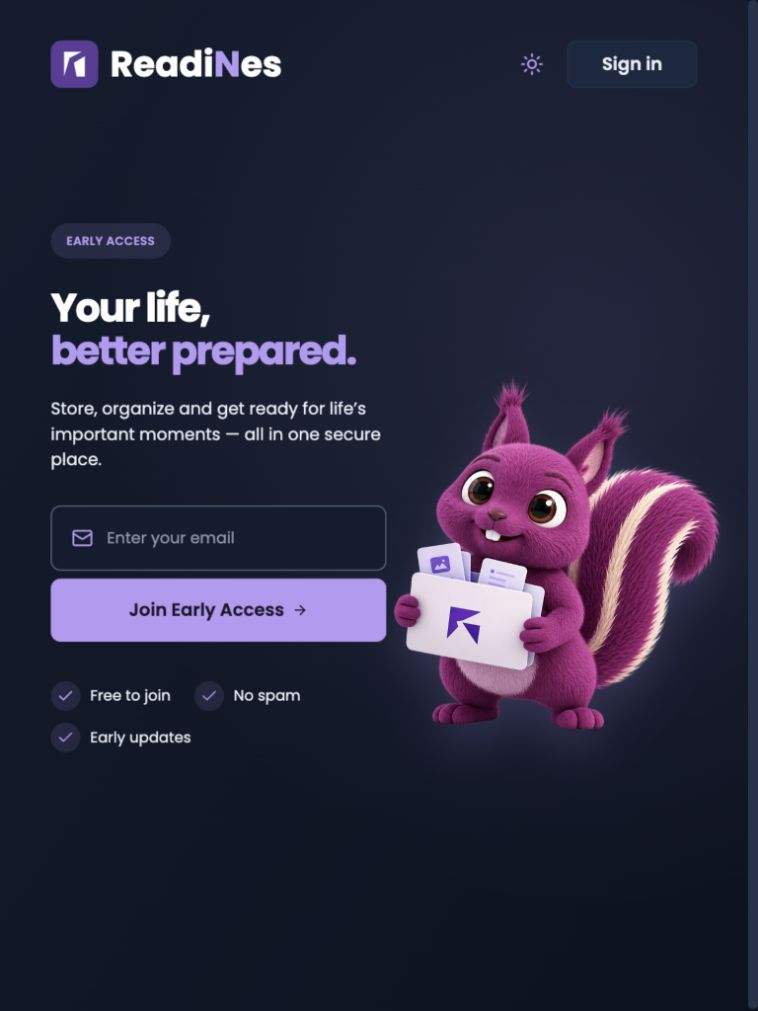
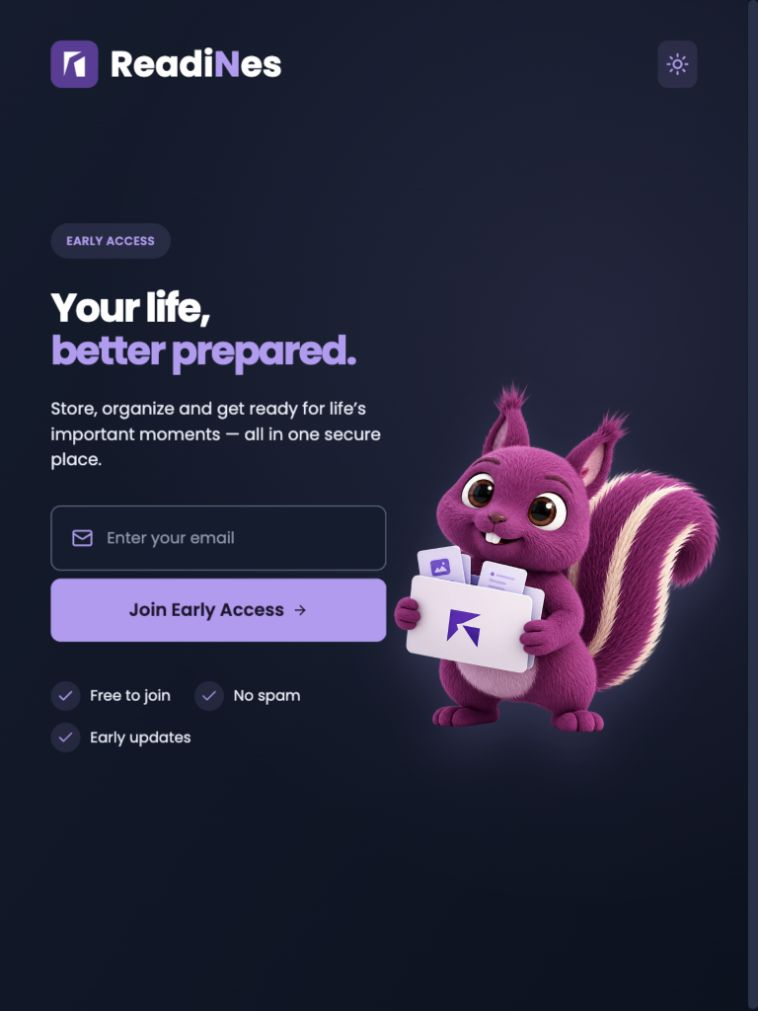
Remove Sign In from early-access landing

Changed region(s): [[0.5158, 0.368, 0.9406, 0.7359], [0.7889, 0.0307, 0.9103, 0.092], [0.6979, 0.0613, 0.7282, 0.092]]

diff --git a/src/components/EarlyAccessLanding.test.tsx b/src/components/EarlyAccessLanding.test.tsx
@@ -46,16 +46,15 @@ function submit(email = "audit@example.invalid") {
 }
 
 describe("separate early-access landing", () => {
-  it("renders only the new landing and retains the existing sign-in modal and focus restoration", () => {
-    render(<EarlyAccessLanding onAuthed={vi.fn()} />);
+  it("omits Sign In while retaining explicit authentication navigation", () => {
+    const { rerender } = render(<EarlyAccessLanding onAuthed={vi.fn()} />);
     expect(screen.getByRole("heading", { level: 1 }).textContent).toBe(
       "Your life,better prepared.",
     );
     expect(screen.queryByRole("heading", { name: "Features" })).toBeNull();
     expect(screen.queryByRole("heading", { name: "Pricing" })).toBeNull();
-    const signIn = screen.getByRole("button", { name: "Sign in" });
-    signIn.focus();
-    fireEvent.click(signIn);
+    expect(screen.queryByRole("button", { name: "Sign in" })).toBeNull();
+    rerender(<EarlyAccessLanding initialAuthMode="signin" onAuthed={vi.fn()} />);
     const dialog = screen.getByRole("dialog", { name: "Account access" });
     fireEvent.click(
       within(dialog).getByRole("button", { name: "Continue with email" }),
@@ -66,7 +65,6 @@ describe("separate early-access landing", () => {
     ).toBeTruthy();
     fireEvent.keyDown(document, { key: "Escape" });
     expect(screen.queryByRole("dialog")).toBeNull();
-    expect(document.activeElement).toBe(signIn);
   });
   it("validates email without requesting proof or registering", () => {
     render(<EarlyAccessLanding onAuthed={vi.fn()} />);
@@ -150,7 +148,7 @@ describe("separate early-access landing", () => {
   });
   it("aborts pending challenge work on unmount", () => {
     challenge.mockReturnValue(new Promise(() => {}));
-    const { unmount } = render(<EarlyAccessHero onSignIn={vi.fn()} />);
+    const { unmount } = render(<EarlyAccessHero />);
     submit();
     const signal = challenge.mock.calls[0][0] as AbortSignal;
     unmount();

diff --git a/src/components/EarlyAccessHero.tsx b/src/components/EarlyAccessHero.tsx
@@ -35,7 +35,7 @@ import {
   HeroBrand,
 } from "./EarlyAccessHero.styles";
 
-export function EarlyAccessHero({ onSignIn }: { onSignIn: () => void }) {
+export function EarlyAccessHero() {
   const appearance = useSyncExternalStore(
     subscribeAppearance,
     getAppliedAppearance,
@@ -108,13 +108,6 @@ export function EarlyAccessHero({ onSignIn }: { onSignIn: () => void }) {
             ) : (
               <Moon aria-hidden="true" />
             )}
-          </HeroNavigationButton>
-          <HeroNavigationButton
-            type="button"
-            variant="secondary"
-            onClick={onSignIn}
-          >
-            Sign in
           </HeroNavigationButton>
         </Actions>
       </Nav>

diff --git a/src/components/EarlyAccessLanding.tsx b/src/components/EarlyAccessLanding.tsx
@@ -26,7 +26,7 @@ export default function EarlyAccessLanding({
   }, [initialAuthMode]);
   return (
     <MotionConfig reducedMotion="user">
-      <EarlyAccessHero onSignIn={() => setAuth("signin")} />
+      <EarlyAccessHero />
       <BrandSurface>
         {auth && (
           <AuthModal

diff --git a/docs/early-access/README.md b/docs/early-access/README.md
@@ -9,9 +9,9 @@
 | `src/App.tsx` | Import the new page and switch the route wrapper's rendered component. |
 | `src/App.session.test.tsx` | Mock the new entry component and verify the original page is absent, preserving the existing session/redirect assertions. |
 | `src/components/EarlyAccessLanding.tsx` | Separate page, existing authentication modal and unsubscribe handling. |
-| `src/components/EarlyAccessHero.tsx` | Accessible form, existing challenge/proof/register contract, server messages, theme control and existing brand components. |
+| `src/components/EarlyAccessHero.tsx` | Accessible form, existing challenge/proof/register contract, server messages, theme control and existing brand components. The Sign In button is omitted as requested. |
 | `src/components/EarlyAccessHero.styles.ts` | Scoped responsive composition and semantic colors; 3px mascot float disabled with reduced motion. |
-| `src/components/EarlyAccessLanding.test.tsx` | Eight tests for form, authentication entry, theme and cancellation behavior. |
+| `src/components/EarlyAccessLanding.test.tsx` | Eight tests for form, absence of the Sign In button, explicit authentication navigation, theme and cancellation behavior. |
[1 lines of base64/hex data omitted]
 | `docs/early-access/` | Actual browser screenshots and validation evidence. |
 
@@ -25,7 +25,7 @@ Original `Landing*` files, `src/pages/landing`, `BrandLogo.tsx`, design-system f
 - Vitest: **30 passed across four files**: `EarlyAccessLanding.test.tsx` (8), original `Landing.test.tsx` (6), `App.session.test.tsx` (13), `lib/theme.test.ts` (3).
 - Test command: `vitest run src/components/EarlyAccessLanding.test.tsx src/components/Landing.test.tsx src/App.session.test.tsx src/lib/theme.test.ts`. In this worktree, the final run used a temporary equivalent Vitest config that additionally allowed the original checkout's symlinked `node_modules` directory in Vite's filesystem policy; the default config initially denied its PDF worker import in the routing suite. No config change is shipped.
 - Browser QA used Vite on `127.0.0.1:5177` and a local mock API on port 5180. The real frontend proof solver ran, and registration requests used the existing email/website/challenge/solution fields. Verified success, duplicate email, simulated 503, and retry. No production registrations, email delivery, charges or authenticated live login were performed.
-- Existing Sign In opened its actual modal. Email validation worked, Google remained unavailable without configuration, Escape dismissed the modal, and focus returned to Sign In.
+- The early-access page has no Sign In button. Explicit authentication navigation still opens the existing modal; tests verify its validation and dismissal. Before removal of the button, browser QA also verified the existing modal and focus restoration.
 - Verified light/dark switching; desktop 1536×1024, tablet 768×1024, mobile 390×844, narrow mobile 320×720. No horizontal overflow; narrow submit button ended around y=601 within the 720px viewport. Mobile places text and signup before the mascot.
 - A temporary PerformanceObserver (removed before build/commit) measured desktop development LCP ~464 ms and CLS ~0.000425; narrow mobile LCP ~316 ms and CLS ~0.000075. These are local warm-development observations, not production/network performance guarantees. The supplied PNG is 2.1 MB; image dimensions and a fixed aspect-ratio reserve its layout space. No animation JS listeners were added; challenge work is aborted on unmount and the existing appearance subscription supplies listener cleanup.
 
@@ -48,4 +48,6 @@ Desktop images use a 1536×1024 viewport. Mobile images use a 390×844 viewport 
 | Dark desktop | ![Before dark](screenshots/before-dark-desktop.jpg) | ![After dark](screenshots/after-dark-desktop.jpg) |
 | Dark mobile | ![Before mobile](screenshots/before-dark-mobile.jpg) | ![After mobile](screenshots/after-dark-mobile.jpg) |
 
-Additional evidence: [light mobile](screenshots/after-light-mobile.jpg), [tablet](screenshots/after-dark-tablet.jpg), [320px mobile](screenshots/after-light-narrow.jpg), [registration success](screenshots/registration-success-mobile.jpg), [registration error](screenshots/registration-error-mobile.jpg), [sign-in validation](screenshots/sign-in-mobile.jpg).
+Form-state and sign-in screenshots below predate removal of the Sign In button; current layout captures reflect its removal.
+
+Additional evidence: [light mobile](screenshots/after-light-mobile.jpg), [tablet](screenshots/after-dark-tablet.jpg), [320px mobile](screenshots/after-light-narrow.jpg), [registration success](screenshots/registration-success-mobile.jpg), [registration error](screenshots/registration-error-mobile.jpg), [prior sign-in validation, before button removal](screenshots/sign-in-mobile.jpg).
